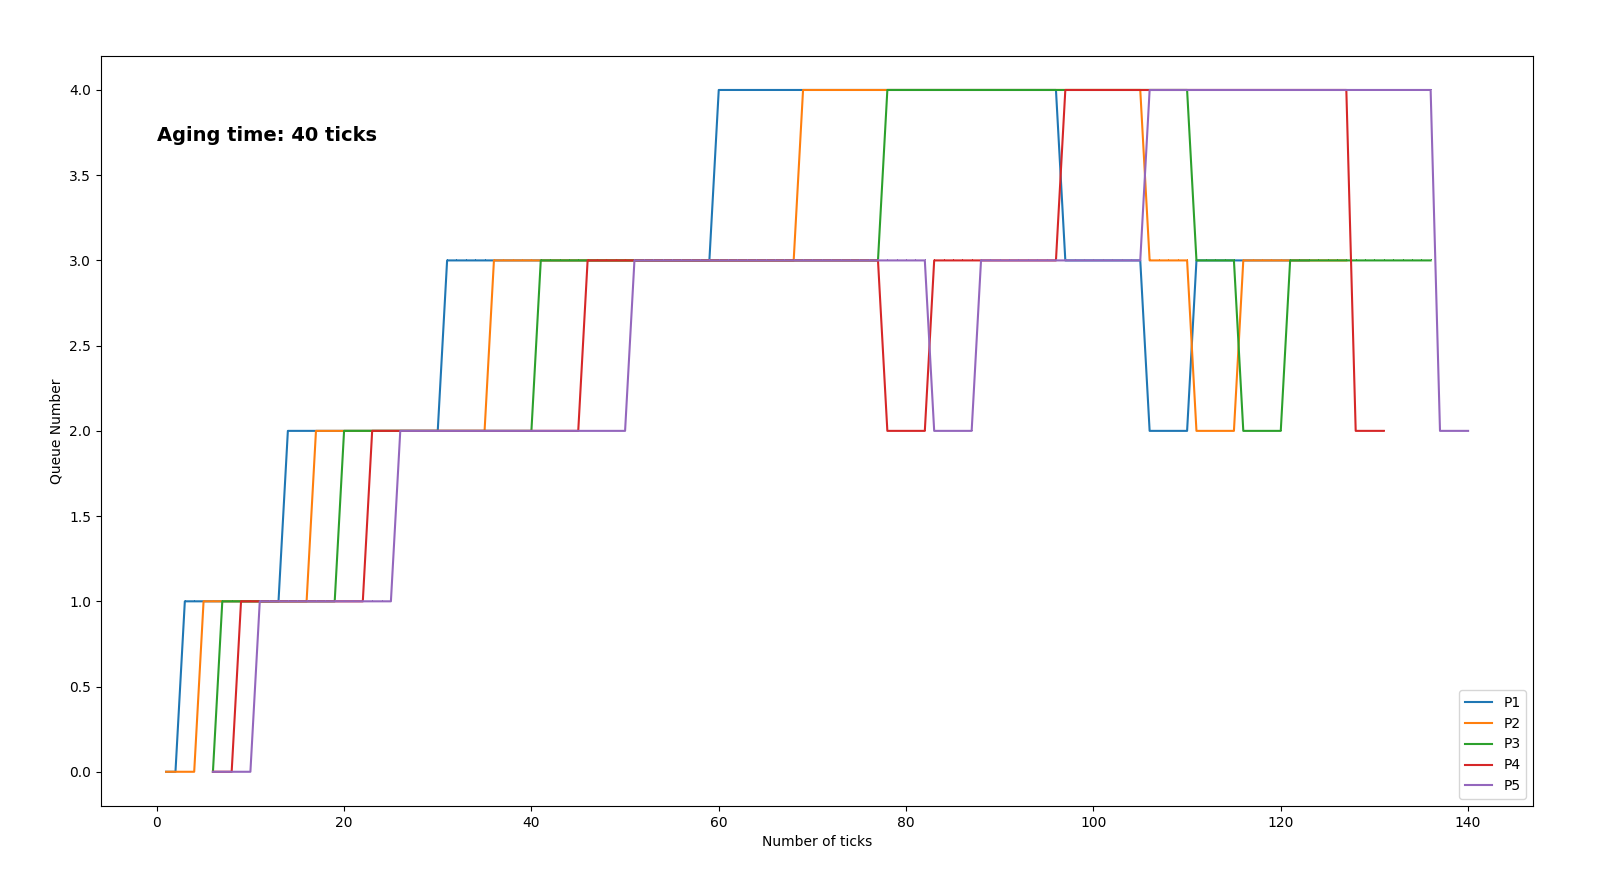
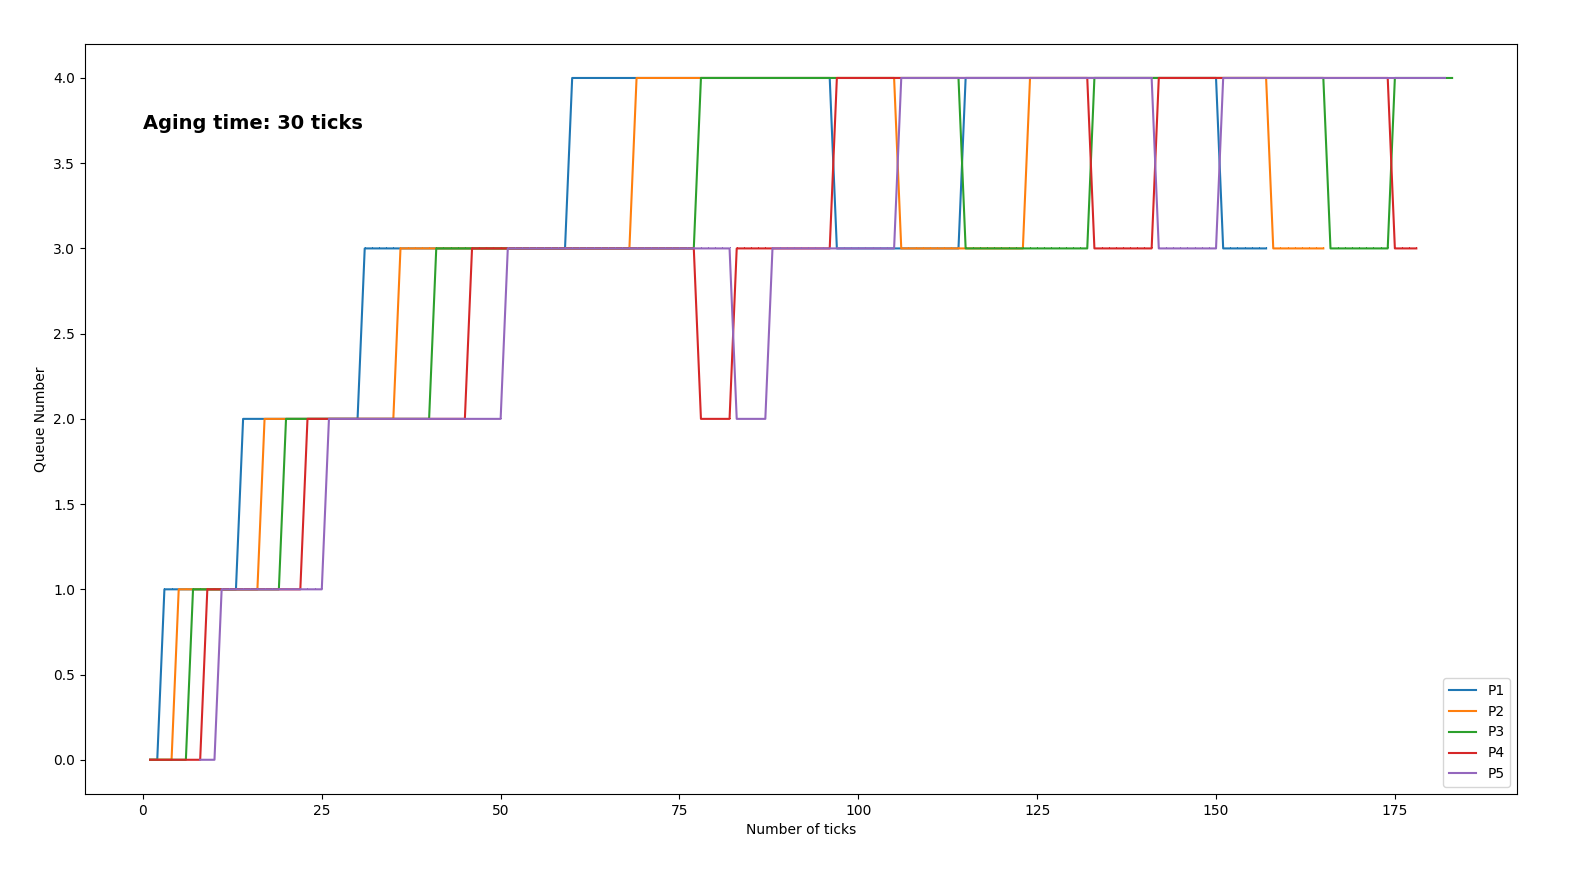
fixed some things

diff --git a/proc.c b/proc.c
@@ -102,12 +102,15 @@ found:
 
   // setting for ps
   p->gotCpu = 0;
-  p->wait_ticks = 0;
+
+  p->scheduled = 0;
   // setting up default priority
   p->priority = 60;
 
   // setting up for MLFQ
   p->move = 0;
+  p->wait_ticks = 0;
+  p->p_ticks = 0;
 #if SCHEDULER == MLFQ
   p->cur_q = 0;
   for (int i = 0; i < 5; i++)
@@ -178,7 +181,7 @@ void userinit(void)
   acquire(&ptable.lock);
 
   p->state = RUNNABLE;
-  p->wait_ticks  = 0;
+  p->wait_ticks = 0;
 #if SCHEDULER == MLFQ
   push_in_q(p, 0);
 #endif
@@ -251,7 +254,7 @@ int fork(void)
   acquire(&ptable.lock);
 
   np->state = RUNNABLE;
-  np->wait_ticks  =  0;
+  np->wait_ticks = 0;
 #if SCHEDULER == MLFQ
   push_in_q(np, 0);
 #endif
@@ -470,7 +473,7 @@ void scheduler(void)
     // Loop over process table looking for process to run.
     acquire(&ptable.lock);
 
-    for (int i = 0; i < 5; i++)
+    for (int i = 0; i < 5; i++) // aging
       for (int j = 0; j < q_ends[i]; j++)
       {
         int cur_q = proc_q[i][j]->cur_q;
@@ -478,6 +481,7 @@ void scheduler(void)
         if (p->wait_ticks > 30 && cur_q != 0)
         {
           pop_from_q(p, cur_q);
+          p->wait_ticks = 0;
           push_in_q(p, cur_q - 1);
           // cprintf("%d promoted from %d to %d\n", p->pid, cur_q, p->cur_q);
         }
@@ -529,7 +533,8 @@ void scheduler(void)
       chosen_proc->move = 0;
       int cur_q = chosen_proc->cur_q;
       chosen_proc->cur_q += (chosen_proc->cur_q == 4 ? 0 : 1);
-      if(chosen_proc->cur_q != cur_q){
+      if (chosen_proc->cur_q != cur_q)
+      {
         // cprintf("%d demoted from %d", chosen_proc->pid, cur_q);
         // cprintf(" to %d\n", chosen_proc->cur_q);
       }
@@ -775,7 +780,7 @@ wakeup1(void *chan)
       p->state = RUNNABLE;
       p->wait_ticks = 0;
 #if SCHEDULER == MLFQ
-      push_in_q(p, 0);
+      push_in_q(p, p->cur_q);
 #endif
     }
 }
@@ -805,10 +810,10 @@ int kill(int pid)
       if (p->state == SLEEPING)
       {
         p->state = RUNNABLE;
-        p->wait_ticks =  0;
+        p->wait_ticks = 0;
 
 #if SCHEDULER == MLFQ
-        push_in_q(p, 0);
+        push_in_q(p, p->cur_q);
 #endif
       }
       release(&ptable.lock);
@@ -972,11 +977,11 @@ void increaseRuntime()
       pr->iotime += 1;
     else if (pr->state == RUNNABLE)
       pr->wait_ticks += 1;
-    
-    if(pr->pid > 3){
-      if(pr->state == RUNNABLE || pr->state == SLEEPING || pr->state == RUNNING)
-        cprintf("%d %d %d\n",ticks, pr->pid, pr->cur_q);
-    }
+
+    // if(pr->state != UNUSED && pr->pid > 3){
+    //   cprintf("%d %d %d\n", ticks, pr->pid, pr->cur_q );
+    // }
+
   }
 
   release(&ptable.lock);

diff --git a/benchmark.c b/benchmark.c
@@ -1,12 +1,12 @@
-
 #include "types.h"
 #include "user.h"
 
-int number_of_processes = 14;
+int number_of_processes = 5;
 
 int main(int argc, char *argv[])
 {
   int j;
+  // set_priority(10, getpid());
   for (j = 0; j < number_of_processes; j++)
   {
     int pid = fork();
@@ -20,27 +20,28 @@ int main(int argc, char *argv[])
       volatile int i;
       for (volatile int k = 0; k < number_of_processes; k++)
       {
-        if (k <= j)
-        {
-          sleep(200); //io time
-        }
-        else
-        {
-          for (i = 0; i < 100000000; i++)
+        // if (k <= j)
+        // {
+        //   // sleep(20); //io time
+        // }
+        // else
+        // {
+          for (i = 0; i < (int)1e8; i++)
           {
             ; //cpu time
           }
-        }
+        // }
       }
-      printf(1, "Process: %d Finished\n", j);
+      // printf(1, "Process: %d Finished pid: %d\n", j, getpid());
       exit();
     }
-    else{
-        ;
-      set_priority(75 + (j%4),pid); // will only matter for PBS, comment it out if not implemented yet (better priorty for more IO intensive jobs)
+    else
+    {
+      ;
+      // set_priority(80+j%3, pid); // will only matter for PBS, comment it out if not implemented yet (better priorty for more IO intensive jobs)
     }
   }
-  for (j = 0; j < number_of_processes + 5; j++)
+  for (j = 0; j < number_of_processes; j++)
   {
     wait();
   }

diff --git a/time.c b/time.c
@@ -32,7 +32,7 @@ int main(int argc, char *argv[])
         int wtime, rtime;
         waitx(&wtime, &rtime);
         printf(1, "Time Report:\n");
-        printf(1, "PID: %d\n Runtime: %d\n Wait-time: %d\n", , pid, rtime, wtime);
+        printf(1, "PID: %d\nRuntime: %d\nWait-time: %d\n",  pid, rtime, wtime);
 
     }
     exit();
